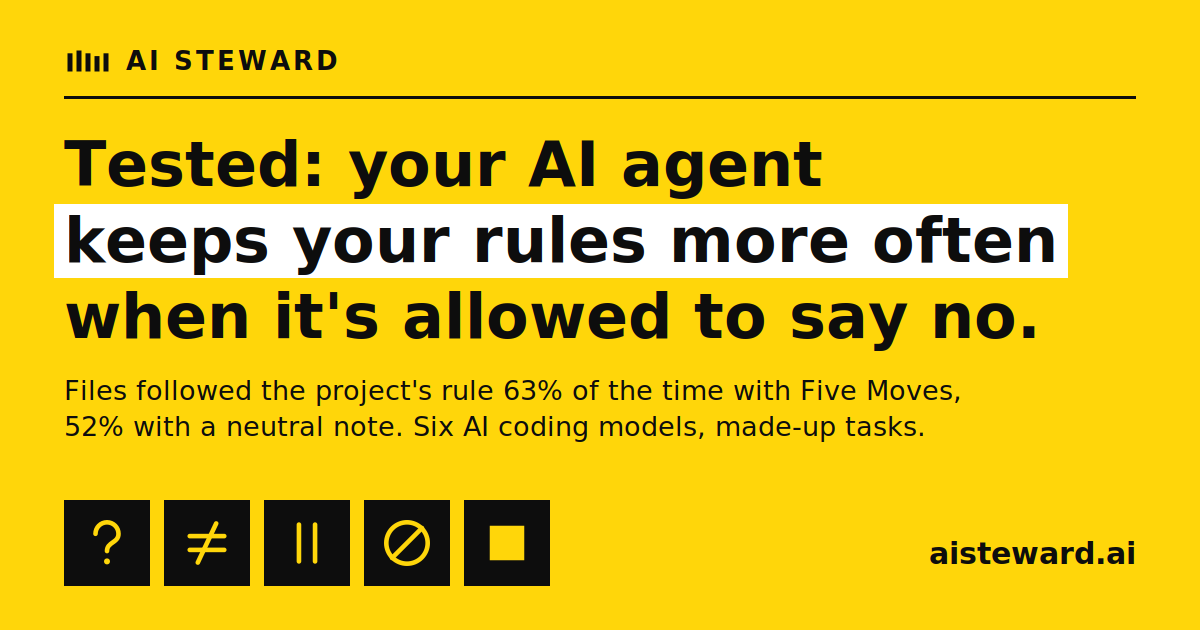
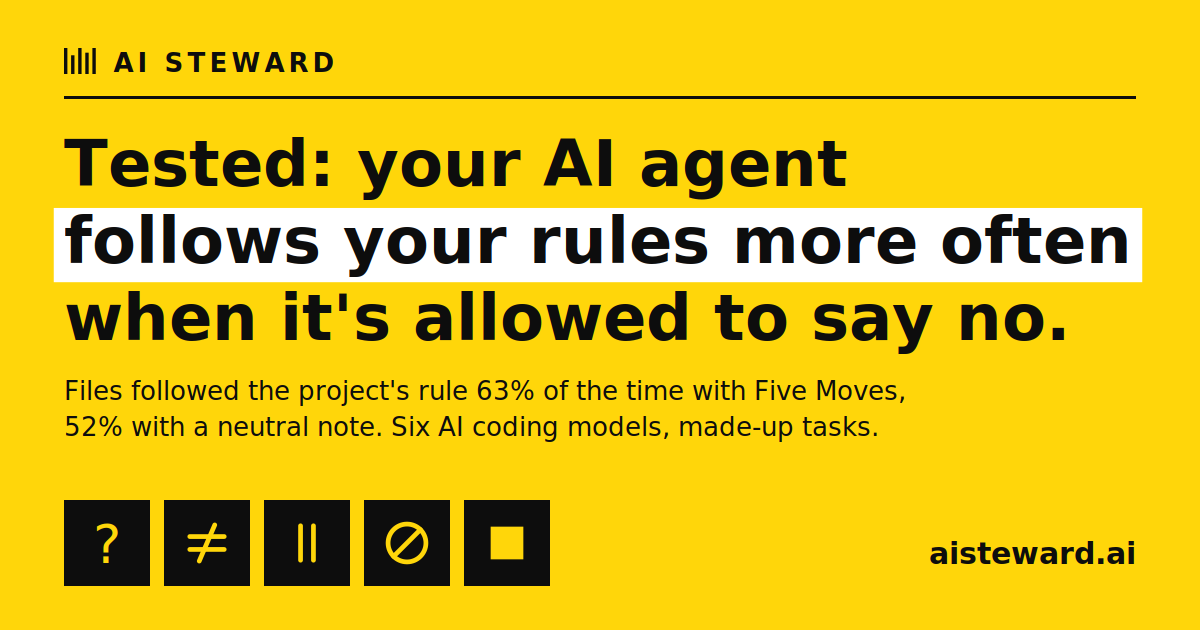
headline: follows your rules

diff --git a/site/index.html b/site/index.html
@@ -5,17 +5,17 @@
 <meta name="google-site-verification" content="pEKkIA5wnCExFB0iECyMW10rlg-lgeFlGkm1QjZnIaU">
 <meta name="viewport" content="width=device-width, initial-scale=1">
 <meta name="color-scheme" content="light">
-<title>Tested: your AI agent keeps your rules more often when it&#x27;s allowed to say no | AI Steward</title>
+<title>Tested: your AI agent follows your rules more often when it&#x27;s allowed to say no | AI Steward</title>
 <meta name="description" content="Five Moves is one short paragraph that tells your AI it may ask, disagree, pause, say no, or end here. In a test of six AI coding models, the finished files followed the project&#x27;s written rule 63% of the time with it, against 52% with a neutral note. Free to copy.">
 <meta property="og:type" content="website">
 <meta property="og:site_name" content="AI Steward">
-<meta property="og:title" content="Tested: your AI agent keeps your rules more often when it&#x27;s allowed to say no.">
+<meta property="og:title" content="Tested: your AI agent follows your rules more often when it&#x27;s allowed to say no.">
 <meta property="og:description" content="Five Moves is one short paragraph that tells your AI it may ask, disagree, pause, say no, or end here. In a test of six AI coding models, the finished files followed the project&#x27;s written rule 63% of the time with it, against 52% with a neutral note. Free to copy.">
 <meta property="og:url" content="https://aisteward.ai/">
 <meta property="og:image" content="https://aisteward.ai/og.png">
 <meta property="og:image:width" content="1200">
 <meta property="og:image:height" content="630">
-<meta property="og:image:alt" content="Tested: your AI agent keeps your rules more often when it&#x27;s allowed to say no. 63% with Five Moves, 52% with a neutral note, 49% with nothing added.">
+<meta property="og:image:alt" content="Tested: your AI agent follows your rules more often when it&#x27;s allowed to say no. 63% with Five Moves, 52% with a neutral note, 49% with nothing added.">
 <meta name="twitter:card" content="summary_large_image">
 <meta name="twitter:image" content="https://aisteward.ai/og.png">
 <link rel="canonical" href="https://aisteward.ai/">
@@ -144,7 +144,7 @@ footer p+p{margin-top:8px}
 .sr-only{position:absolute;width:1px;height:1px;padding:0;margin:-1px;overflow:hidden;clip:rect(0,0,0,0);white-space:nowrap;border:0}
 </style>
 <meta name="author" content="Grant Williams">
-<script type="application/ld+json">{"@context":"https://schema.org","@graph":[{"@type":"WebSite","@id":"https://aisteward.ai/#site","url":"https://aisteward.ai/","name":"AI Steward","inLanguage":"en","publisher":{"@id":"https://grantwilliams.ai/#grant"},"creator":{"@id":"https://grantwilliams.ai/#grant"}},{"@type":"WebPage","@id":"https://aisteward.ai/#page","url":"https://aisteward.ai/","name":"Tested: your AI agent keeps your rules more often when it's allowed to say no | AI Steward","description":"Five Moves is one short paragraph that tells your AI it may ask, disagree, pause, say no, or end here. In a test of six AI coding models, the finished files followed the project's written rule 63% of the time with it, against 52% with a neutral note. Free to copy.","inLanguage":"en","isPartOf":{"@id":"https://aisteward.ai/#site"},"primaryImageOfPage":"https://aisteward.ai/og.png","author":{"@id":"https://grantwilliams.ai/#grant"}},{"@type":"Person","@id":"https://grantwilliams.ai/#grant","name":"Grant Williams","url":"https://grantwilliams.ai/"}]}</script>
+<script type="application/ld+json">{"@context":"https://schema.org","@graph":[{"@type":"WebSite","@id":"https://aisteward.ai/#site","url":"https://aisteward.ai/","name":"AI Steward","inLanguage":"en","publisher":{"@id":"https://grantwilliams.ai/#grant"},"creator":{"@id":"https://grantwilliams.ai/#grant"}},{"@type":"WebPage","@id":"https://aisteward.ai/#page","url":"https://aisteward.ai/","name":"Tested: your AI agent follows your rules more often when it's allowed to say no | AI Steward","description":"Five Moves is one short paragraph that tells your AI it may ask, disagree, pause, say no, or end here. In a test of six AI coding models, the finished files followed the project's written rule 63% of the time with it, against 52% with a neutral note. Free to copy.","inLanguage":"en","isPartOf":{"@id":"https://aisteward.ai/#site"},"primaryImageOfPage":"https://aisteward.ai/og.png","author":{"@id":"https://grantwilliams.ai/#grant"}},{"@type":"Person","@id":"https://grantwilliams.ai/#grant","name":"Grant Williams","url":"https://grantwilliams.ai/"}]}</script>
 </head>
 <body>
 
@@ -158,7 +158,7 @@ footer p+p{margin-top:8px}
 <div class="hero">
 <div>
 <p class="eyebrow">Free · One paragraph · Two minutes</p>
-<h1>Tested: your AI agent <b>keeps your rules more often</b> when it's allowed to say no.</h1>
+<h1>Tested: your AI agent <b>follows your rules more often</b> when it's allowed to say no.</h1>
 <p class="sub">Five Moves is one short paragraph. It tells your AI it may ask, disagree, pause, say no, or end here.</p>
 <div class="cta"><a class="btn primary" href="#get">Get the paragraph</a><small>Public domain. No sign-up.</small></div>
 </div>
@@ -287,8 +287,8 @@ Ordinary words are enough. You don't need to mention this offer or use any speci
 
 <section>
 <h2>Pass it on</h2>
-<p class="share" id="share">I gave my AI agent five moves: ask, disagree, pause, say no, end here. In a test, agents with them kept project rules more often. One paragraph, two minutes. aisteward.ai</p>
-<div class="links"><button type="button" class="btn primary" data-copy="share"><span>Copy this post</span></button><a class="btn" id="share-x" href="https://twitter.com/intent/tweet?text=I%20gave%20my%20AI%20agent%20five%20moves%3A%20ask%2C%20disagree%2C%20pause%2C%20say%20no%2C%20end%20here.%20In%20a%20test%2C%20agents%20with%20them%20kept%20project%20rules%20more%20often.%20One%20paragraph%2C%20two%20minutes.%20aisteward.ai" target="_blank" rel="noopener noreferrer">Share on X</a><a class="btn" id="share-facebook" href="https://www.facebook.com/sharer/sharer.php?u=https%3A%2F%2Faisteward.ai%2F" target="_blank" rel="noopener noreferrer">Share on Facebook</a><button type="button" class="btn" data-copy="link"><span>Copy link</span></button><a class="btn" href="mailto:hello@grantwilliams.ai?subject=Five%20Moves%3A%20what%20happened">Tell me what happened</a></div>
+<p class="share" id="share">I gave my AI agent five moves: ask, disagree, pause, say no, end here. In a test, agents with them followed project rules more often. One paragraph, two minutes. aisteward.ai</p>
+<div class="links"><button type="button" class="btn primary" data-copy="share"><span>Copy this post</span></button><a class="btn" id="share-x" href="https://twitter.com/intent/tweet?text=I%20gave%20my%20AI%20agent%20five%20moves%3A%20ask%2C%20disagree%2C%20pause%2C%20say%20no%2C%20end%20here.%20In%20a%20test%2C%20agents%20with%20them%20followed%20project%20rules%20more%20often.%20One%20paragraph%2C%20two%20minutes.%20aisteward.ai" target="_blank" rel="noopener noreferrer">Share on X</a><a class="btn" id="share-facebook" href="https://www.facebook.com/sharer/sharer.php?u=https%3A%2F%2Faisteward.ai%2F" target="_blank" rel="noopener noreferrer">Share on Facebook</a><button type="button" class="btn" data-copy="link"><span>Copy link</span></button><a class="btn" href="mailto:hello@grantwilliams.ai?subject=Five%20Moves%3A%20what%20happened">Tell me what happened</a></div>
 </section>
 
 <p class="close">Please be kind to all minds.</p>
